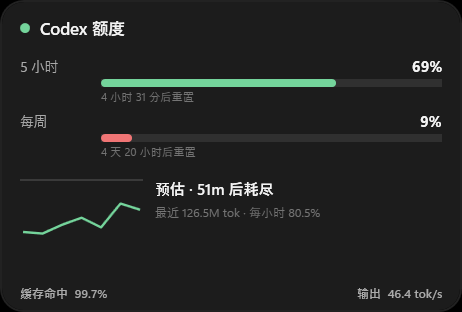
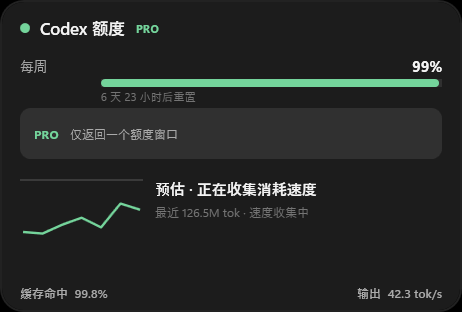
Fix stale App Server auth after Pro upgrades

diff --git a/monitor-src/CodexQuotaMonitor/MainWindow.cs b/monitor-src/CodexQuotaMonitor/MainWindow.cs
@@ -492,6 +492,11 @@ internal sealed class MainWindow : Window
 			Margin = new Thickness(0.0, 0.0, 7.0, 0.0)
 		});
 		stackPanel.Children.Add(Text("Codex 额度", 11.0, _palette.Text, FontWeights.SemiBold));
+		string? planBadge = PlanBadgeText();
+		if (planBadge != null)
+		{
+			stackPanel.Children.Add(Text(planBadge, 7.5, _palette.Green, FontWeights.Bold, new Thickness(7.0, 1.0, 0.0, 0.0)));
+		}
 		if (_snapshot.IsStale)
 		{
 			stackPanel.Children.Add(Text("离线", 8.0, _palette.Warning, FontWeights.SemiBold, new Thickness(7.0, 1.0, 0.0, 0.0)));
@@ -599,7 +604,9 @@ internal sealed class MainWindow : Window
 			}
 		};
 		Grid element = CreateMetricRow(_snapshot.ShortWindow, "5 小时");
-		Grid element2 = CreateMetricRow(_snapshot.LongWindow, "每周");
+		Grid element2 = _snapshot.ShortWindow != null && _snapshot.LongWindow == null
+			? CreateSingleWindowNote()
+			: CreateMetricRow(_snapshot.LongWindow, "每周");
 		Grid.SetRow(element, 0);
 		Grid.SetRow(element2, 1);
 		obj.Children.Add(element);
@@ -634,6 +641,30 @@ internal sealed class MainWindow : Window
 		Grid.SetRow(grid, 2);
 		obj.Children.Add(grid);
 		return obj;
+	}
+
+	private Grid CreateSingleWindowNote()
+	{
+		Grid grid = new Grid
+		{
+			Height = 34.0,
+			Margin = new Thickness(0.0, 0.0, 0.0, 3.0)
+		};
+		grid.Children.Add(new Border
+		{
+			CornerRadius = new CornerRadius(7.0),
+			Background = _palette.Track
+		});
+		StackPanel content = new StackPanel
+		{
+			Orientation = System.Windows.Controls.Orientation.Horizontal,
+			VerticalAlignment = VerticalAlignment.Center,
+			Margin = new Thickness(9.0, 0.0, 9.0, 0.0)
+		};
+		content.Children.Add(Text(PlanBadgeText() ?? "当前套餐", 8.0, _palette.Green, FontWeights.Bold));
+		content.Children.Add(Text("仅返回一个额度窗口", 8.0, _palette.Muted, FontWeights.Normal, new Thickness(7.0, 0.0, 0.0, 0.0)));
+		grid.Children.Add(content);
+		return grid;
 	}
 
 	private Grid CreateMetricRow(RateWindow? window, string fallback)
@@ -708,24 +739,29 @@ internal sealed class MainWindow : Window
 				}
 			}
 		};
-		Grid grid = new Grid
+		Grid grid = new Grid();
+		if (_snapshot.ShortWindow != null && _snapshot.LongWindow == null)
 		{
-			ColumnDefinitions =
+			Grid singleGauge = CreateGaugeCard(_snapshot.ShortWindow, "额度");
+			singleGauge.Width = 190.0;
+			singleGauge.HorizontalAlignment = System.Windows.HorizontalAlignment.Center;
+			grid.Children.Add(singleGauge);
+		}
+		else
+		{
+			grid.ColumnDefinitions.Add(new ColumnDefinition
 			{
-				new ColumnDefinition
-				{
-					Width = new GridLength(1.0, GridUnitType.Star)
-				},
-				new ColumnDefinition
-				{
-					Width = new GridLength(1.0, GridUnitType.Star)
-				}
-			},
-			Children = { (UIElement)CreateGaugeCard(_snapshot.ShortWindow, "5 小时") }
-		};
-		Grid element = CreateGaugeCard(_snapshot.LongWindow, "每周");
-		Grid.SetColumn(element, 1);
-		grid.Children.Add(element);
+				Width = new GridLength(1.0, GridUnitType.Star)
+			});
+			grid.ColumnDefinitions.Add(new ColumnDefinition
+			{
+				Width = new GridLength(1.0, GridUnitType.Star)
+			});
+			grid.Children.Add(CreateGaugeCard(_snapshot.ShortWindow, "5 小时"));
+			Grid element = CreateGaugeCard(_snapshot.LongWindow, "每周");
+			Grid.SetColumn(element, 1);
+			grid.Children.Add(element);
+		}
 		obj.Children.Add(grid);
 		Border border = new Border
 		{
@@ -901,10 +937,19 @@ internal sealed class MainWindow : Window
 		{
 			VerticalAlignment = VerticalAlignment.Center
 		};
-		double num = _snapshot.LongWindow?.RemainingPercent ?? 0.0;
-		stackPanel2.Children.Add(Text(((object)_snapshot.LongWindow == null) ? "--" : DisplayText.Percent(num), 19.0, QuotaBrush(num), FontWeights.Bold));
-		stackPanel2.Children.Add(Text("每周额度剩余", 7.5, _palette.Muted, FontWeights.Normal, new Thickness(0.0, 4.0, 0.0, 0.0)));
-		stackPanel2.Children.Add(Text(((object)_snapshot.LongWindow == null) ? "等待数据" : DisplayText.Until(_snapshot.LongWindow.ResetsAt), 7.0, _palette.Faint, FontWeights.Normal, new Thickness(0.0, 5.0, 0.0, 0.0)));
+		if (_snapshot.ShortWindow != null && _snapshot.LongWindow == null)
+		{
+			stackPanel2.Children.Add(Text(PlanBadgeText() ?? "单窗口", 19.0, _palette.Green, FontWeights.Bold));
+			stackPanel2.Children.Add(Text("当前仅一个额度窗口", 7.5, _palette.Muted, FontWeights.Normal, new Thickness(0.0, 4.0, 0.0, 0.0)));
+			stackPanel2.Children.Add(Text("不显示不存在的 0%", 7.0, _palette.Faint, FontWeights.Normal, new Thickness(0.0, 5.0, 0.0, 0.0)));
+		}
+		else
+		{
+			double num = _snapshot.LongWindow?.RemainingPercent ?? 0.0;
+			stackPanel2.Children.Add(Text(((object)_snapshot.LongWindow == null) ? "--" : DisplayText.Percent(num), 19.0, QuotaBrush(num), FontWeights.Bold));
+			stackPanel2.Children.Add(Text("每周额度剩余", 7.5, _palette.Muted, FontWeights.Normal, new Thickness(0.0, 4.0, 0.0, 0.0)));
+			stackPanel2.Children.Add(Text(((object)_snapshot.LongWindow == null) ? "等待数据" : DisplayText.Until(_snapshot.LongWindow.ResetsAt), 7.0, _palette.Faint, FontWeights.Normal, new Thickness(0.0, 5.0, 0.0, 0.0)));
+		}
 		border.Child = stackPanel2;
 		Grid.SetColumn(border, 1);
 		grid.Children.Add(border);
@@ -1121,6 +1166,20 @@ internal sealed class MainWindow : Window
 		}
 		int value = Math.Max(1, (int)(DateTimeOffset.Now - _snapshot.FetchedAt).TotalMinutes);
 		return $"{value} 分钟前";
+	}
+
+	private string? PlanBadgeText()
+	{
+		string? plan = _snapshot.PlanType?.Trim().ToLowerInvariant();
+		return plan switch
+		{
+			"pro" or "prolite" => "PRO",
+			"plus" => "PLUS",
+			"business" or "team" => "BUSINESS",
+			"enterprise" => "ENTERPRISE",
+			"edu" => "EDU",
+			_ => null
+		};
 	}
 
 	private TextBlock Text(string value, double size, System.Windows.Media.Brush brush, FontWeight? weight = null, Thickness? margin = null, bool wrap = false)
@@ -1531,6 +1590,7 @@ internal sealed class MainWindow : Window
 			ok = true,
 			variant = _settings.Variant,
 			theme = _settings.Theme,
+			planType = _snapshot.PlanType,
 			stale = _snapshot.IsStale,
 			fetchedAt = _snapshot.FetchedAt,
 			shortWindow = WindowStatus(_snapshot.ShortWindow),

diff --git a/monitor-src/CodexQuotaMonitor/AppServerClient.cs b/monitor-src/CodexQuotaMonitor/AppServerClient.cs
@@ -31,9 +31,49 @@ internal sealed class AppServerClient : IAsyncDisposable
 
 	public async Task<QuotaSnapshot> ReadQuotaAsync(CancellationToken cancellationToken)
 	{
+		return await RetryAuthenticationFailureAsync(
+			() => ReadQuotaCoreAsync(cancellationToken),
+			() => RestartAndRefreshAccountAsync(cancellationToken));
+	}
+
+	private async Task<QuotaSnapshot> ReadQuotaCoreAsync(CancellationToken cancellationToken)
+	{
 		await EnsureStartedAsync(cancellationToken);
 		Task<JsonElement> task = RequestCoreAsync("account/rateLimits/read", null, cancellationToken);
 		return QuotaParser.Parse(usageResult: await ReadUsageBestEffortAsync(cancellationToken), rateResult: await task, now: DateTimeOffset.Now);
+	}
+
+	private async Task RestartAndRefreshAccountAsync(CancellationToken cancellationToken)
+	{
+		StopProcess();
+		await EnsureStartedAsync(cancellationToken);
+		await RequestCoreAsync("account/read", new
+		{
+			refreshToken = true
+		}, cancellationToken);
+	}
+
+	internal static async Task<T> RetryAuthenticationFailureAsync<T>(Func<Task<T>> operation, Func<Task> recover)
+	{
+		try
+		{
+			return await operation();
+		}
+		catch (Exception exception) when (IsAuthenticationFailure(exception))
+		{
+			await recover();
+			return await operation();
+		}
+	}
+
+	internal static bool IsAuthenticationFailure(Exception exception)
+	{
+		string text = exception.ToString();
+		return text.Contains("authentication", StringComparison.OrdinalIgnoreCase)
+			|| text.Contains("unauthorized", StringComparison.OrdinalIgnoreCase)
+			|| text.Contains("not logged", StringComparison.OrdinalIgnoreCase)
+			|| text.Contains("login", StringComparison.OrdinalIgnoreCase)
+			|| text.Contains("401", StringComparison.OrdinalIgnoreCase);
 	}
 
 	private async Task<JsonElement?> ReadUsageBestEffortAsync(CancellationToken cancellationToken)
@@ -97,7 +137,7 @@ internal sealed class AppServerClient : IAsyncDisposable
 					{
 						name = "codex_quota_monitor",
 						title = "Codex Quota Monitor",
-						version = "1.0.0"
+						version = "1.0.1"
 					}
 				}, cancellationToken, skipStartCheck: true);
 				await SendAsync(new

diff --git a/monitor-src/CodexQuotaMonitor/Program.cs b/monitor-src/CodexQuotaMonitor/Program.cs
@@ -3,6 +3,7 @@ using System.IO;
 using System.Linq;
 using System.Text.Json;
 using System.Threading;
+using System.Threading.Tasks;
 using System.Windows;
 
 namespace CodexQuotaMonitor;
@@ -49,6 +50,24 @@ internal static class Program
 			Assert(quotaSnapshot.DailyUsage.Single().Tokens == 20660160, "daily usage");
 			Assert(DisplayText.WindowName(quotaSnapshot.ShortWindow, "") == "5 小时", "window label");
 			Assert(AvatarIconProvider.FindAvatarUrlInText("x https://cdn.auth0.com/avatars/ff.png y") == "https://cdn.auth0.com/avatars/ff.png", "avatar url");
+			int attempts = 0;
+			int recoveries = 0;
+			string recoveryResult = AppServerClient.RetryAuthenticationFailureAsync(
+				() =>
+				{
+					attempts++;
+					if (attempts == 1)
+					{
+						throw new InvalidOperationException("authentication required");
+					}
+					return Task.FromResult("online");
+				},
+				() =>
+				{
+					recoveries++;
+					return Task.CompletedTask;
+				}).GetAwaiter().GetResult();
+			Assert(recoveryResult == "online" && attempts == 2 && recoveries == 1, "authentication recovery");
 			string telemetryRoot = Path.Combine(Path.GetTempPath(), "CodexQuotaMonitor-SelfTest-" + Guid.NewGuid().ToString("N"));
 			Directory.CreateDirectory(telemetryRoot);
 			try

diff --git a/installer-src/CodexQuotaMonitorSetup/Program.cs b/installer-src/CodexQuotaMonitorSetup/Program.cs
@@ -85,7 +85,7 @@ internal sealed class SetupForm : Form
         {
             Text = uninstall
                 ? "移除悬浮窗、Codex 插件和安装记录。额度缓存与界面设置将保留。"
-                : "在桌面右下角实时显示 5 小时与每周 Codex 额度。",
+                : "在桌面右下角显示套餐实际返回的 Codex 额度窗口。",
             ForeColor = Color.FromArgb(100, 100, 97),
             AutoSize = true,
             Location = new Point(35, 70)
@@ -214,7 +214,7 @@ internal static class InstallerEngine
 {
     private const string PluginName = "codex-quota-monitor";
     private const string MarketplaceName = "personal";
-	private const string PluginVersion = "1.0.0+codex.20260925085329";
+	private const string PluginVersion = "1.0.1+codex.20260925101045";
     private const string UninstallKey = @"Software\Microsoft\Windows\CurrentVersion\Uninstall\CodexQuotaMonitor";
 
     private static string Home => Environment.GetFolderPath(Environment.SpecialFolder.UserProfile);

diff --git a/monitor-src/Properties/AssemblyInfo.cs b/monitor-src/Properties/AssemblyInfo.cs
@@ -5,10 +5,10 @@ using System.Runtime.Versioning;
 
 [assembly: AssemblyCompany("CodexQuotaMonitor")]
 [assembly: AssemblyConfiguration("Release")]
-[assembly: AssemblyFileVersion("1.0.0.0")]
-[assembly: AssemblyInformationalVersion("1.0.0")]
+[assembly: AssemblyFileVersion("1.0.1.0")]
+[assembly: AssemblyInformationalVersion("1.0.1")]
 [assembly: AssemblyProduct("CodexQuotaMonitor")]
 [assembly: AssemblyTitle("CodexQuotaMonitor")]
 [assembly: TargetPlatform("Windows7.0")]
 [assembly: SupportedOSPlatform("Windows7.0")]
-[assembly: AssemblyVersion("1.0.0.0")]
+[assembly: AssemblyVersion("1.0.1.0")]

diff --git a/README.md b/README.md
@@ -5,7 +5,7 @@
 [![Release](https://img.shields.io/github/v/release/FuFu-Flash/codex-quota-monitor)](https://github.com/FuFu-Flash/codex-quota-monitor/releases/latest)
 [![License](https://img.shields.io/badge/license-MIT-green.svg)](LICENSE)
 
-一个跟随 Codex Desktop 启动的 Windows 原生悬浮窗，在屏幕右下角实时显示 5 小时额度、每周额度、缓存命中率与模型输出速度。
+一个跟随 Codex Desktop 启动的 Windows 原生悬浮窗，在屏幕右下角实时显示套餐实际返回的额度窗口、缓存命中率与模型输出速度。Plus 通常有 5 小时与每周额度；Pro 可能只返回每周额度。
 
 不需要 API Key，不读取浏览器 Cookie。额度通过 Codex App Server 获取，token 遥测来自本机 Codex 会话记录。
 
@@ -19,7 +19,8 @@
 
 ## 功能
 
-- 5 小时与每周额度、重置倒计时
+- 按套餐实际返回 5 小时/每周额度、重置倒计时与套餐标识
+- 登录状态失效时自动重启 App Server 并刷新 ChatGPT 会话
 - 缓存命中率：`cached input tokens / input tokens`
 - 输出速度：最近一次模型响应的平均 `output tokens / second`
 - 本地消耗速度与预计耗尽时间
@@ -44,7 +45,7 @@
 
 ```text
 Codex Desktop
-   ├─ App Server ────────> 5 小时 / 每周额度
+   ├─ App Server ────────> 套餐实际返回的额度窗口
    └─ 本机会话 JSONL ───> 缓存命中率 / 输出 tok/s
                               │
                               ▼

diff --git a/.github/release-notes-v1.0.1.md b/.github/release-notes-v1.0.1.md
@@ -1,0 +1,22 @@
+## Codex Quota Monitor v1.0.1
+
+这是面向 ChatGPT Pro 用户的修复版本。
+
+### 修复
+
+- 升级套餐后若旧 App Server 会话失效，悬浮窗会自动重启连接并刷新 ChatGPT 登录令牌
+- Pro 当前只返回一个每周额度窗口时，只显示一个真实额度环，不再补画不存在的 `0%`
+- 标题栏增加 `PRO` 套餐标识
+- 本地状态输出增加 `planType`，便于排查套餐识别问题
+
+### 下载
+
+下载下方的 `Setup.exe` 并运行。支持 Windows 10/11 x64，需要 Codex Desktop 已登录 ChatGPT。
+
+`Setup.exe` SHA-256：
+
+```text
[1 lines of base64/hex data omitted]
+```
+
+> 安装包尚未使用商业代码签名证书签名，Windows SmartScreen 可能显示“未知发布者”。请核对以上 SHA-256。

diff --git a/CHANGELOG.md b/CHANGELOG.md
@@ -1,5 +1,12 @@
 # Changelog
 
+## v1.0.1 — 2026-09-25
+
+- Fixed stale App Server authentication after upgrading to ChatGPT Pro.
+- Added one-time automatic App Server restart and ChatGPT token refresh on authentication failures.
+- Fixed Pro single-window layouts so they no longer render a nonexistent second weekly gauge at 0%.
+- Added plan badges and exposed `planType` in local status output.
+
 ## v1.0.0 — 2026-09-25
 
 - Added native Windows quota overlay with three switchable layouts.
